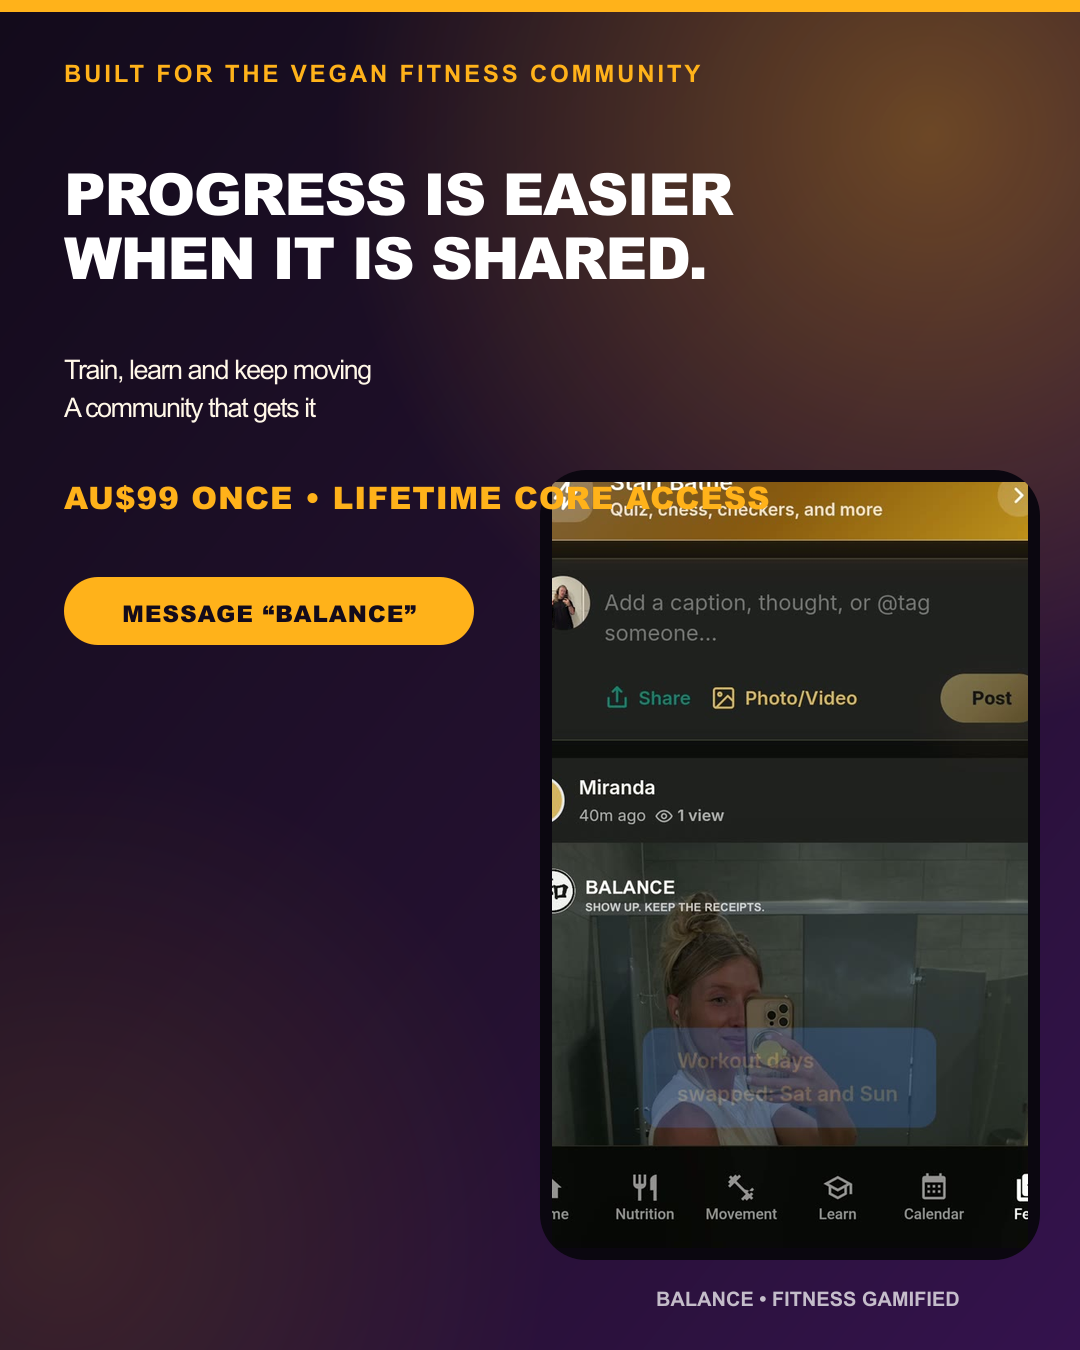
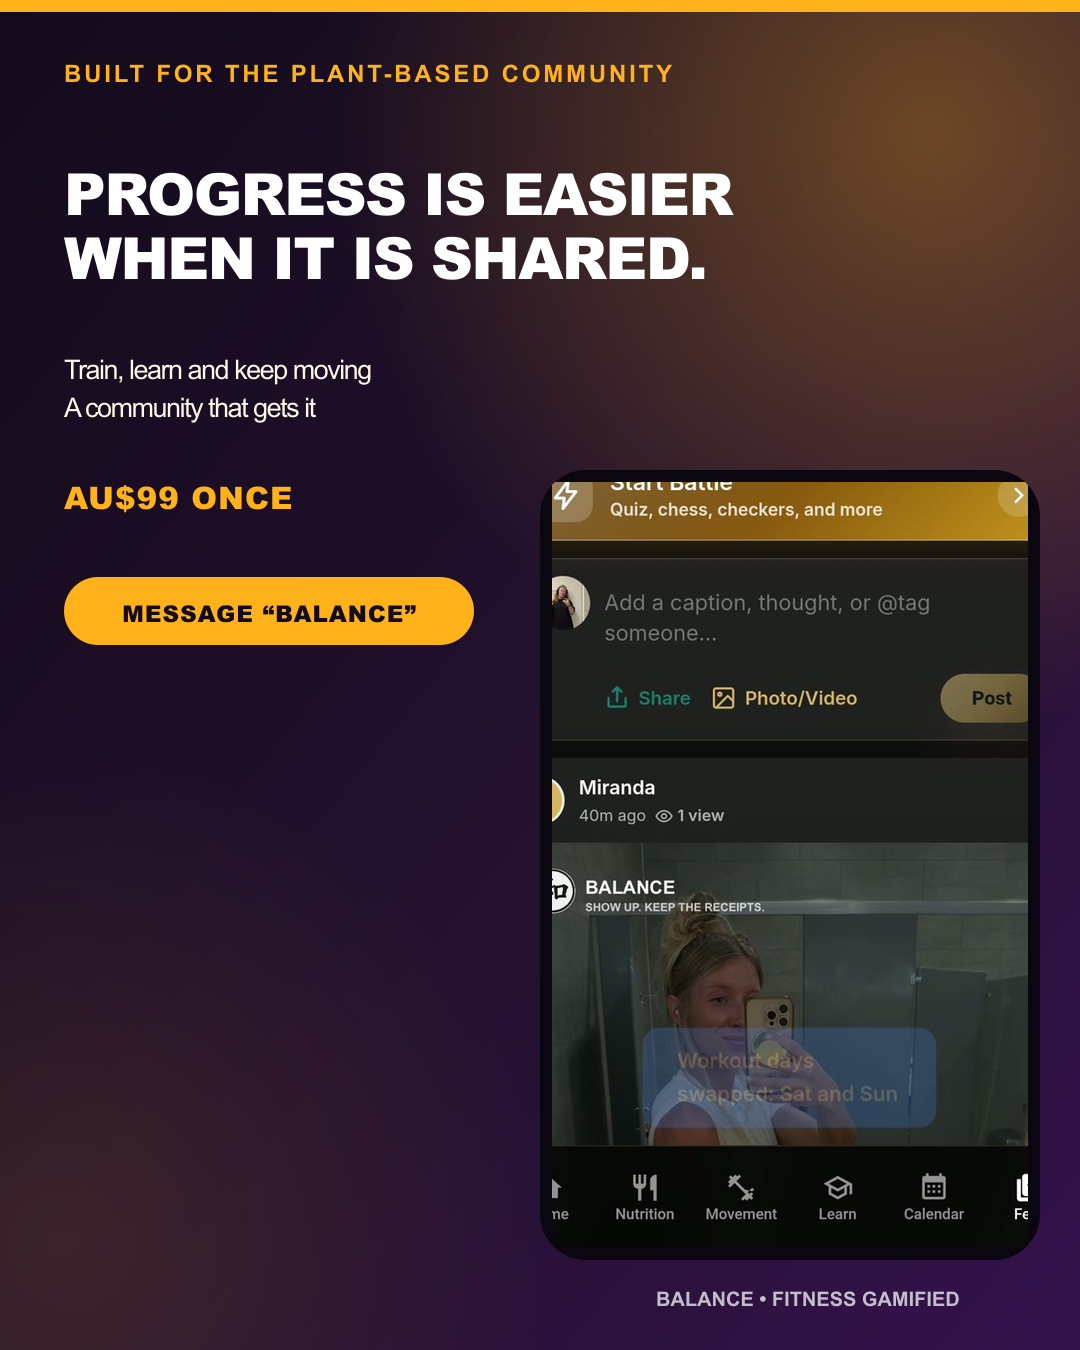
campaign: use plant-based community wording

Changed region(s): [[0.3056, 0.3422, 0.7028, 0.3733], [0.275, 0.0311, 0.6417, 0.0622]]

diff --git a/output/meta-founders-pass-campaign-2026-07-22/review.html b/output/meta-founders-pass-campaign-2026-07-22/review.html
@@ -1,1 +1,1 @@
-<!doctype html><html><head><meta charset="utf-8"><meta name="viewport" content="width=device-width,initial-scale=1"><title>Balance Founders Pass Meta Campaign</title><style>body{margin:0;background:#0e0714;color:#fff;font:16px/1.55 Arial,sans-serif}header{padding:48px max(24px,5vw);background:linear-gradient(135deg,#241130,#130b1b)}h1{font-size:clamp(36px,6vw,76px);line-height:.95;margin:12px 0}header p{max-width:760px;color:#e9dff0}main{padding:36px max(20px,4vw);display:grid;gap:36px}article{display:grid;grid-template-columns:minmax(280px,520px) 1fr;gap:36px;align-items:start;background:#1d1028;border:1px solid #432653;border-radius:24px;padding:20px}img{width:100%;border-radius:14px}span{color:#ffb21a;font-weight:900;letter-spacing:2px}h2{font-size:34px;line-height:1.05}p{color:#ddd0e5}@media(max-width:800px){article{grid-template-columns:1fr}header{padding-top:30px}}</style></head><body><header><span>READY FOR REVIEW</span><h1>Balance Founders Pass<br>Meta Campaign</h1><p>Six distinct message-led creative routes. Campaign defaults to PAUSED, AU$20 per day, Australia broad 24–54, Instagram Direct conversations.</p></header><main><article><img src="01-coach-in-your-corner-feed-1080x1350.png" alt="Six weeks with Shannon, AU$99 once"><div><span>AD 1</span><h2>Six weeks with Shannon, AU$99 once</h2><p>Getting fit should not mean figuring everything out alone. The Balance Founders Pass gives you six weeks of one-to-one in-app support from me for questions, direction and accountability, plus lifetime access to the core app and vegan fitness community. AU$99 once. Send me “BALANCE” and I’ll help you work out if it fits.</p><p><strong>Headline:</strong> Six weeks with Shannon, AU$99 once</p><p><strong>Description:</strong> Lifetime core Balance app + vegan community access</p></div></article><article><img src="02-stop-restarting-feed-1080x1350.png" alt="Stop restarting. Build a rhythm."><div><span>AD 2</span><h2>Stop restarting. Build a rhythm.</h2><p>Another perfect plan is not the answer if it only lasts a week. Balance brings your training, progress and support into one place, with six weeks of coaching support from me to help you build a rhythm you can actually keep. Message “BALANCE” for the Founders Pass details.</p><p><strong>Headline:</strong> Stop restarting. Build a rhythm.</p><p><strong>Description:</strong> Six weeks of support + lifetime core access</p></div></article><article><img src="03-six-weeks-lifetime-access-feed-1080x1350.png" alt="Six weeks with Shannon. Lifetime core access."><div><span>AD 3</span><h2>Six weeks with Shannon. Lifetime core access.</h2><p>The Balance Vegan Fitness Founders Pass is simple: pay AU$99 once, get six weeks of one-to-one in-app coaching support from me, then keep lifetime access to the core Balance app and vegan fitness community. No sales call needed. Message me for the details.</p><p><strong>Headline:</strong> Six weeks with Shannon. Lifetime core access.</p><p><strong>Description:</strong> The Vegan Fitness Founders Pass</p></div></article><article><img src="04-plant-based-clarity-feed-1080x1350.png" alt="Plant-based fitness, made clearer"><div><span>AD 4</span><h2>Plant-based fitness, made clearer</h2><p>Plant-based fitness does not need more noise. Balance puts training, vegan nutrition and progress tools together, with six weeks of coaching support from me when you need direction. The Founders Pass is AU$99 once and includes lifetime core app and community access. Message “BALANCE” for details.</p><p><strong>Headline:</strong> Plant-based fitness, made clearer</p><p><strong>Description:</strong> Training, nutrition, progress and support</p></div></article><article><img src="05-not-doing-it-alone-feed-1080x1350.png" alt="Vegan fitness is better together"><div><span>AD 5</span><h2>Vegan fitness is better together</h2><p>Balance is more than a workout tracker. It is a vegan fitness community where training, progress and support live together. The Founders Pass includes six weeks with me in your corner, then lifetime access to the core app and community. AU$99 once. Message “BALANCE” to see what is included.</p><p><strong>Headline:</strong> Vegan fitness is better together</p><p><strong>Description:</strong> Join the Balance founding members</p></div></article><article><img src="06-built-by-shannon-feed-1080x1350.png" alt="Vegan fitness, built by someone who gets it"><div><span>AD 6</span><h2>Vegan fitness, built by someone who gets it</h2><p>I built Balance because vegan fitness should feel less lonely and less complicated. I’m an exercise scientist, former gym owner and vegan coach. The Founders Pass gives you six weeks of coaching support with me, plus lifetime core app and vegan community access for AU$99 once. Send me a message and I’ll talk you through it.</p><p><strong>Headline:</strong> Vegan fitness, built by someone who gets it</p><p><strong>Description:</strong> Meet Shannon and the Balance Founders Pass</p></div></article></main></body></html>
+<!doctype html><html><head><meta charset="utf-8"><meta name="viewport" content="width=device-width,initial-scale=1"><title>Balance Founders Pass Meta Campaign</title><style>body{margin:0;background:#0e0714;color:#fff;font:16px/1.55 Arial,sans-serif}header{padding:48px max(24px,5vw);background:linear-gradient(135deg,#241130,#130b1b)}h1{font-size:clamp(36px,6vw,76px);line-height:.95;margin:12px 0}header p{max-width:760px;color:#e9dff0}main{padding:36px max(20px,4vw);display:grid;gap:36px}article{display:grid;grid-template-columns:minmax(280px,520px) 1fr;gap:36px;align-items:start;background:#1d1028;border:1px solid #432653;border-radius:24px;padding:20px}img{width:100%;border-radius:14px}span{color:#ffb21a;font-weight:900;letter-spacing:2px}h2{font-size:34px;line-height:1.05}p{color:#ddd0e5}@media(max-width:800px){article{grid-template-columns:1fr}header{padding-top:30px}}</style></head><body><header><span>READY FOR REVIEW</span><h1>Balance Founders Pass<br>Meta Campaign</h1><p>Six distinct message-led creative routes. Campaign defaults to PAUSED, AU$20 per day, Australia broad 24–54, Instagram Direct conversations.</p></header><main><article><img src="01-coach-in-your-corner-feed-1080x1350.png" alt="Six weeks with Shannon, AU$99 once"><div><span>AD 1</span><h2>Six weeks with Shannon, AU$99 once</h2><p>Getting fit should not mean figuring everything out alone. The Balance Founders Pass gives you six weeks of one-to-one in-app support from me for questions, direction and accountability, plus lifetime access to the core app and plant-based community. AU$99 once. Send me “BALANCE” and I’ll help you work out if it fits.</p><p><strong>Headline:</strong> Six weeks with Shannon, AU$99 once</p><p><strong>Description:</strong> Lifetime core Balance app + plant-based community access</p></div></article><article><img src="02-stop-restarting-feed-1080x1350.png" alt="Stop restarting. Build a rhythm."><div><span>AD 2</span><h2>Stop restarting. Build a rhythm.</h2><p>Another perfect plan is not the answer if it only lasts a week. Balance brings your training, progress and support into one place, with six weeks of coaching support from me to help you build a rhythm you can actually keep. Message “BALANCE” for the Founders Pass details.</p><p><strong>Headline:</strong> Stop restarting. Build a rhythm.</p><p><strong>Description:</strong> Six weeks of support + lifetime core access</p></div></article><article><img src="03-six-weeks-lifetime-access-feed-1080x1350.png" alt="Six weeks with Shannon. Lifetime core access."><div><span>AD 3</span><h2>Six weeks with Shannon. Lifetime core access.</h2><p>The Balance Vegan Fitness Founders Pass is simple: pay AU$99 once, get six weeks of one-to-one in-app coaching support from me, then keep lifetime access to the core Balance app and plant-based community. No sales call needed. Message me for the details.</p><p><strong>Headline:</strong> Six weeks with Shannon. Lifetime core access.</p><p><strong>Description:</strong> The Vegan Fitness Founders Pass</p></div></article><article><img src="04-plant-based-clarity-feed-1080x1350.png" alt="Plant-based fitness, made clearer"><div><span>AD 4</span><h2>Plant-based fitness, made clearer</h2><p>Plant-based fitness does not need more noise. Balance puts training, vegan nutrition and progress tools together, with six weeks of coaching support from me when you need direction. The Founders Pass is AU$99 once and includes lifetime core app and community access. Message “BALANCE” for details.</p><p><strong>Headline:</strong> Plant-based fitness, made clearer</p><p><strong>Description:</strong> Training, nutrition, progress and support</p></div></article><article><img src="05-not-doing-it-alone-feed-1080x1350.png" alt="Plant-based fitness is better together"><div><span>AD 5</span><h2>Plant-based fitness is better together</h2><p>Balance is more than a workout tracker. It is a plant-based community where training, progress and support live together. The Founders Pass includes six weeks with me in your corner, then lifetime access to the core app and community. AU$99 once. Message “BALANCE” to see what is included.</p><p><strong>Headline:</strong> Plant-based fitness is better together</p><p><strong>Description:</strong> Join the Balance founding members</p></div></article><article><img src="06-built-by-shannon-feed-1080x1350.png" alt="Vegan fitness, built by someone who gets it"><div><span>AD 6</span><h2>Vegan fitness, built by someone who gets it</h2><p>I built Balance because vegan fitness should feel less lonely and less complicated. I’m an exercise scientist, former gym owner and vegan coach. The Founders Pass gives you six weeks of coaching support with me, plus lifetime core app and plant-based community access for AU$99 once. Send me a message and I’ll talk you through it.</p><p><strong>Headline:</strong> Vegan fitness, built by someone who gets it</p><p><strong>Description:</strong> Meet Shannon and the Balance Founders Pass</p></div></article></main></body></html>
